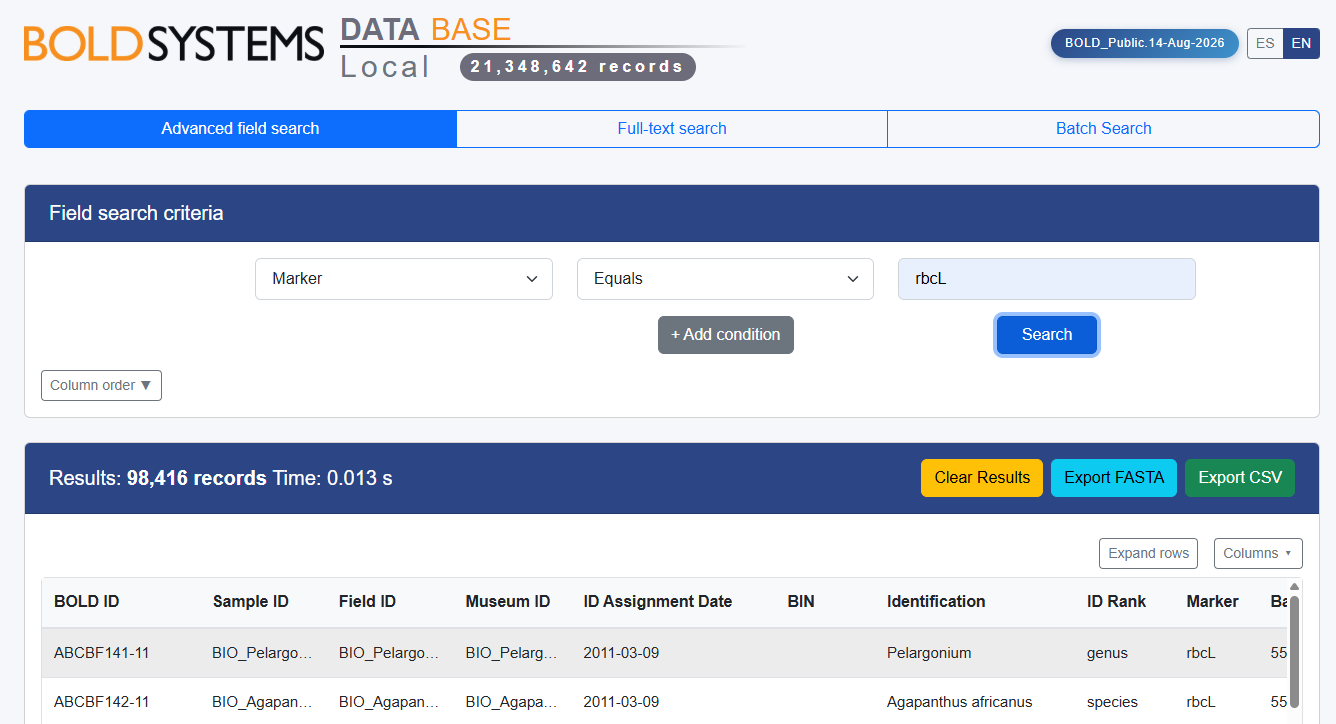
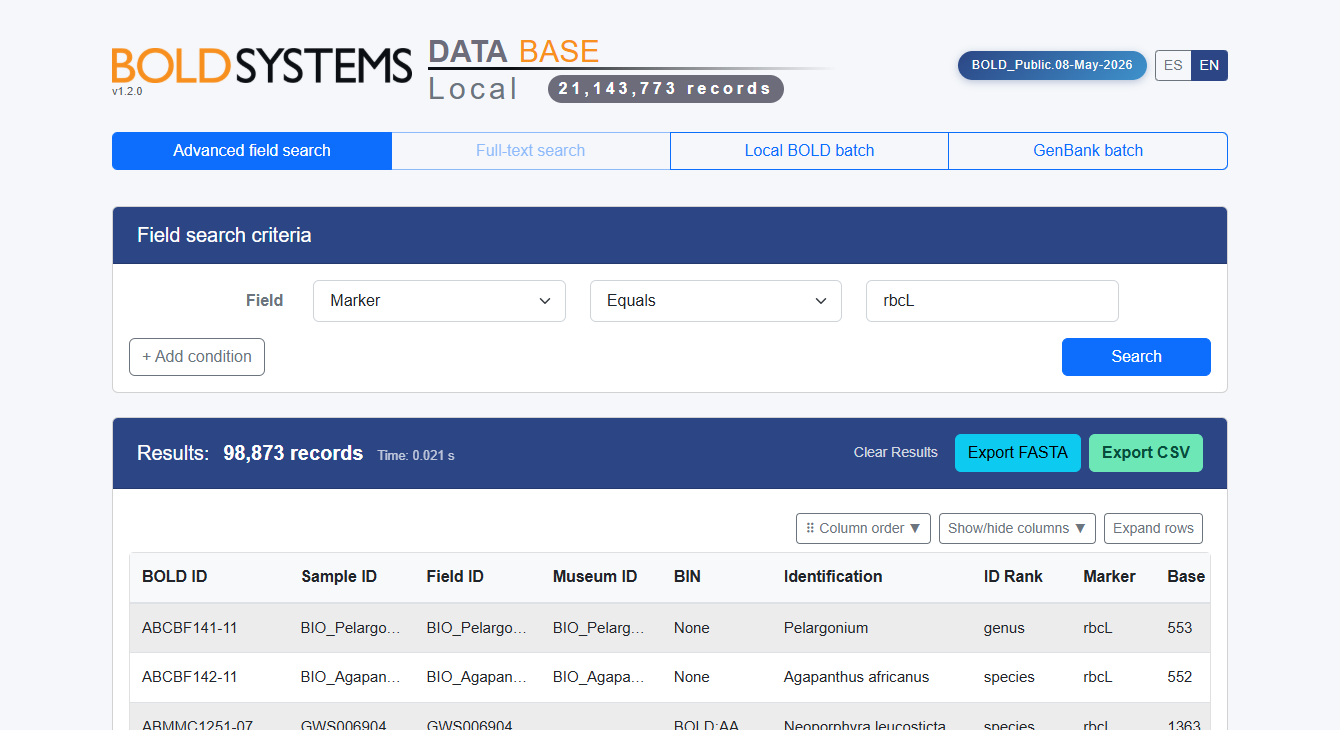
Update screenshots for the renamed tabs and the GenBank batch tab
Retaken from the current viewer (BOLD_Public.08-May-2026 database):
advanced field search, Local BOLD batch and the new GenBank batch.
full_text_search.png is kept as is: that database has no FTS index to
retake it. README shows the four in a 2x2 grid.

diff --git a/README.md b/README.md
@@ -29,9 +29,11 @@ Two programs, used in order:
 
 ### Screenshots
 
-| Full-text search | Advanced field search | Local BOLD batch |
-|---|---|---|
-| ![Full-text search](dev/screenshots/full_text_search.png) | ![Advanced field search](dev/screenshots/advanced_field_search.png) | ![Local BOLD batch](dev/screenshots/batch_search.png) |
+| Advanced field search | Full-text search |
+|---|---|
+| ![Advanced field search](dev/screenshots/advanced_field_search.png) | ![Full-text search](dev/screenshots/full_text_search.png) |
+| **Local BOLD batch** | **GenBank batch** |
+| ![Local BOLD batch](dev/screenshots/batch_search.png) | ![GenBank batch](dev/screenshots/genbank_batch.png) |
 
 ## Requirements
 
